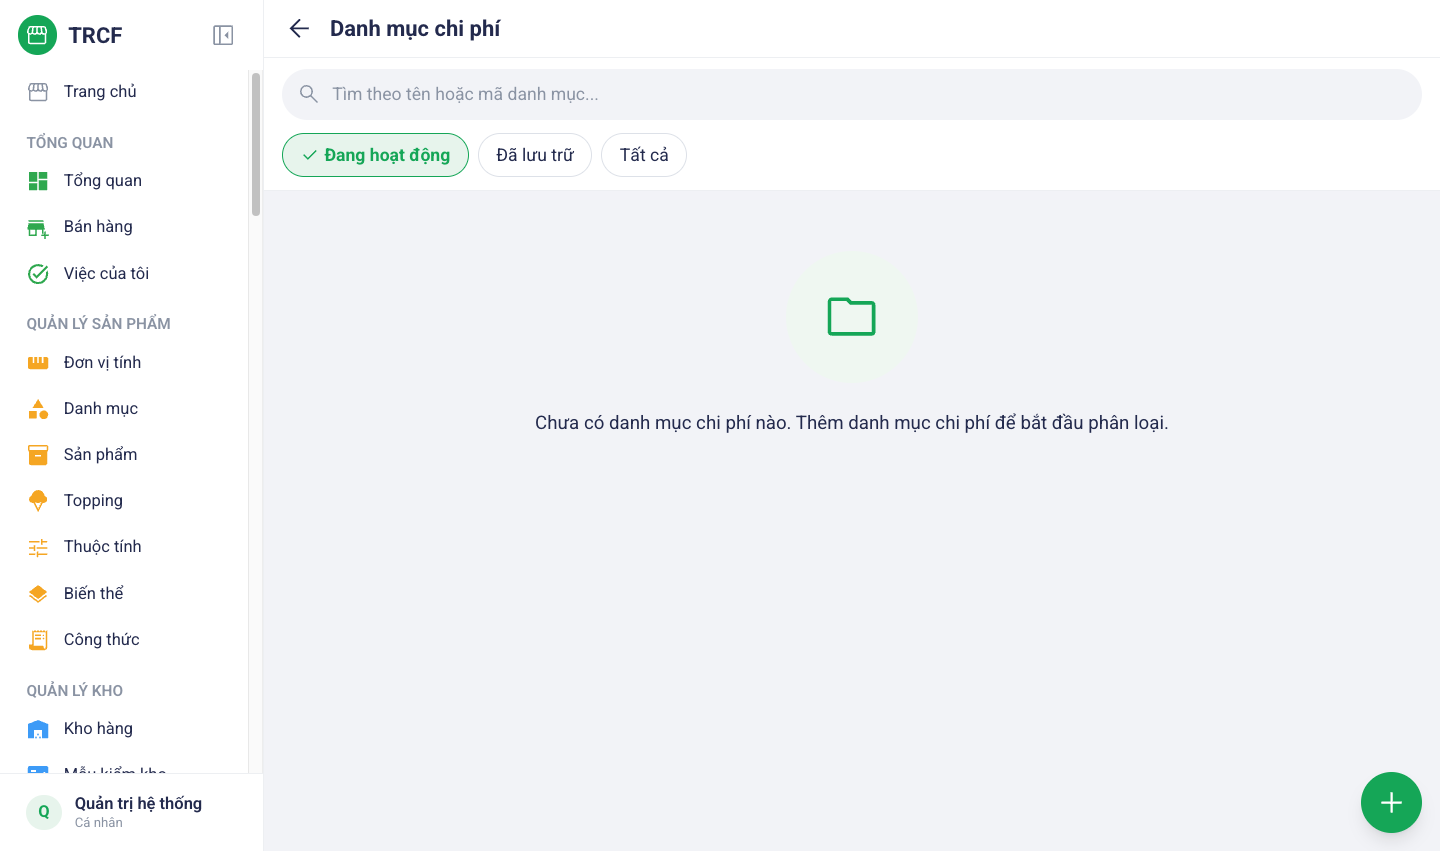
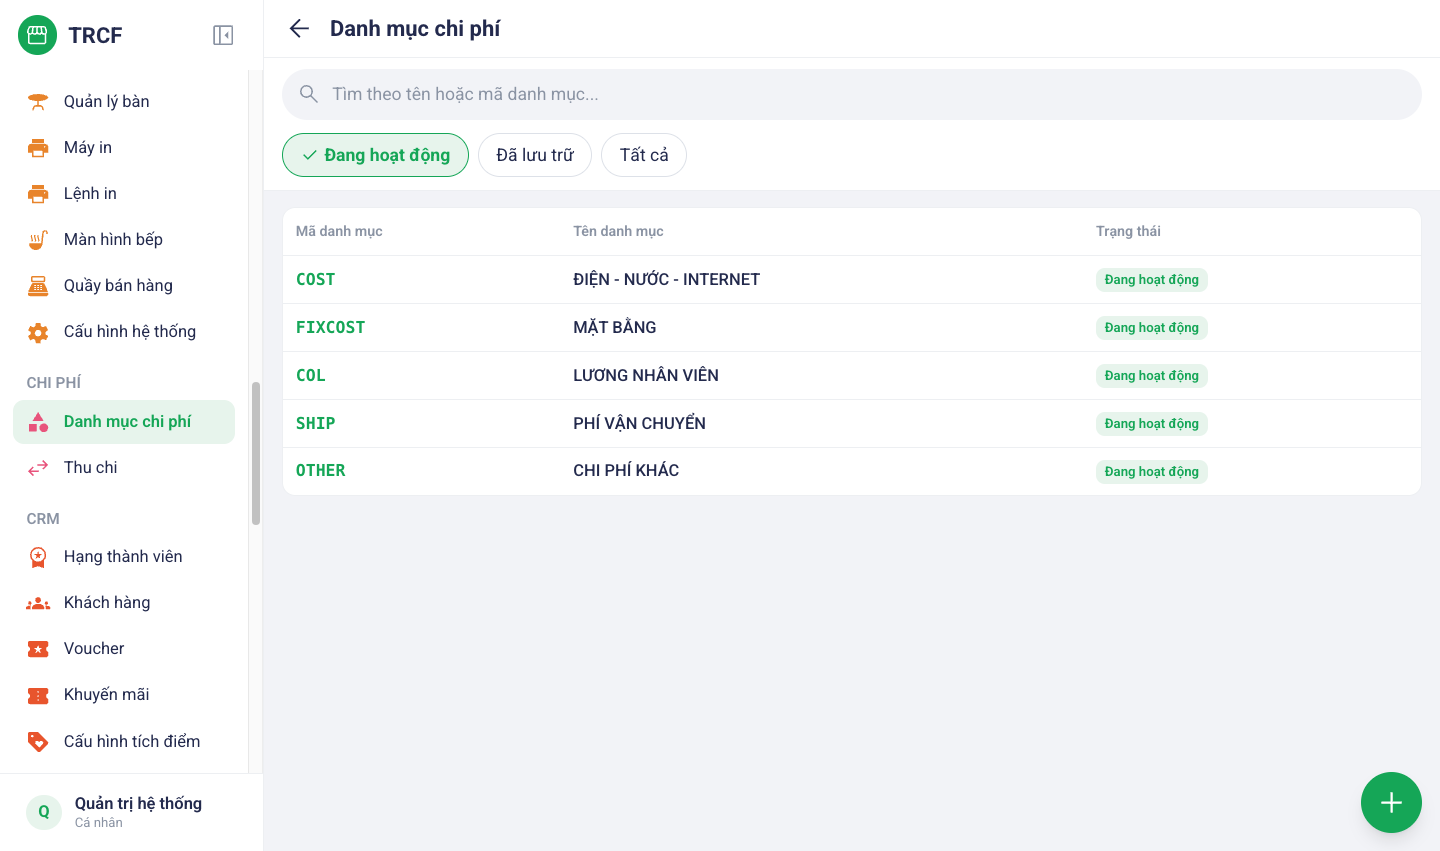
docs(10.1): danh mục chi phí thật — PHÍ VẬN CHUYỂN (SHIP)

diff --git a/noi-dung/10-1-danh-muc-chi-phi.md b/noi-dung/10-1-danh-muc-chi-phi.md
@@ -10,8 +10,9 @@ Menu trái: ==Chi phí → Danh mục chi phí== (địa chỉ `/expense-categor
 
 ## 2. Ví dụ nền và các bước thực hiện
 
-> **Ví dụ:** khai danh mục cho tiền thuê mặt bằng.
+> **Ví dụ:** quán gom chi phí vào 5 danh mục: **ĐIỆN - NƯỚC - INTERNET**, **MẶT BẰNG**, **LƯƠNG NHÂN VIÊN**, **PHÍ VẬN CHUYỂN**, **CHI PHÍ KHÁC**.
 >
+> - Bài này khai **PHÍ VẬN CHUYỂN**, mã **SHIP**, cho tiền ship hàng nhà cung cấp giao tới.
 > - Danh mục để gom các khoản chi cùng loại khi xem báo cáo lãi lỗ.
 
 ### Bước 1: Mở trang Danh mục chi phí
@@ -32,7 +33,7 @@ Menu trái: ==Chi phí → Danh mục chi phí== (địa chỉ `/expense-categor
 
 | Trường | Điền gì | Bắt buộc |
 | --- | --- | --- |
-| Mã danh mục | Ngắn, viết hoa, **không trùng**. VD **THUE**, **DIEN** | ✅ |
+| Mã danh mục | Ngắn, viết hoa, **không trùng**. VD **SHIP**, **FIXCOST** | ✅ |
 | Tên danh mục chi phí | Tên hiện khi chọn ở phiếu chi và trên báo cáo | ✅ |
 
 ## 4. Lưu ý quan trọng
